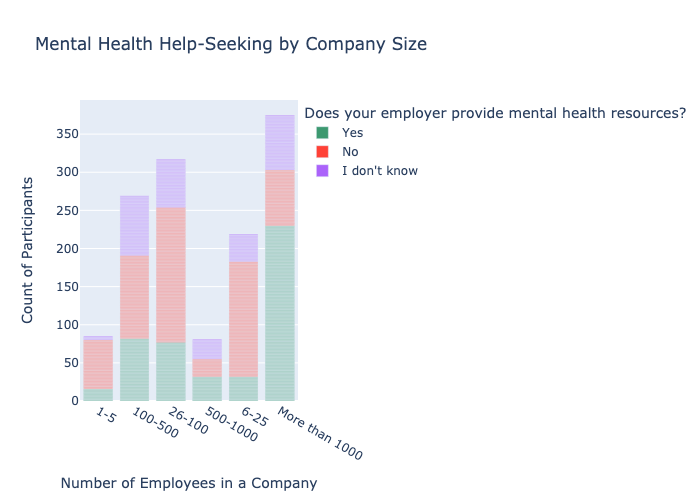
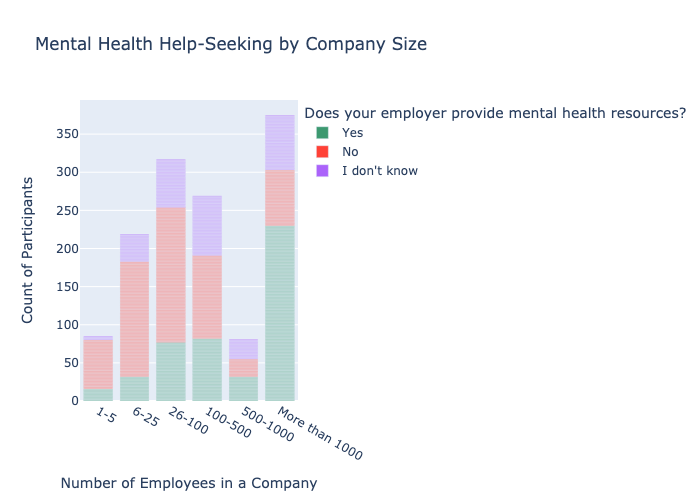
question 4 test

diff --git a/py_modules/question_4.py b/py_modules/question_4.py
@@ -8,7 +8,7 @@ import pandas as pd
 import plotly.io as pio
 
 
-def plot_help_seeking_by_company_size(dataframe):
+def plot_help_seeking_by_company_size(dataframe, output_filename):
     data = dataframe.dropna()
     data = data.sort_values(by=["no_employees"], ascending=True)
     emp_data = data[['no_employees','seek_help']]
@@ -29,12 +29,14 @@ def plot_help_seeking_by_company_size(dataframe):
                       xaxis={"categoryorder": "array", "categoryarray": ['1-5', '6-25', '26-100', '100-500', '500-1000', 'More than 1000']})
     fig.update_xaxes(type='category')
     fig.update_yaxes(title="Count of Participants")
-    pio.write_image(fig, 'output/question_4_graph.png')
+    pio.write_image(fig, output_filename)
 
 
 def main():
     df = merge_data()
-    plot_help_seeking_by_company_size(df)
+    plot_help_seeking_by_company_size(df, 'output/question_4_graph.png')
+    df_14 = pd.read_csv('data/survey_14.csv')
+    plot_help_seeking_by_company_size(df_14, 'output/question_4_test_graph.png')
     
 
 if __name__ == '__main__':
